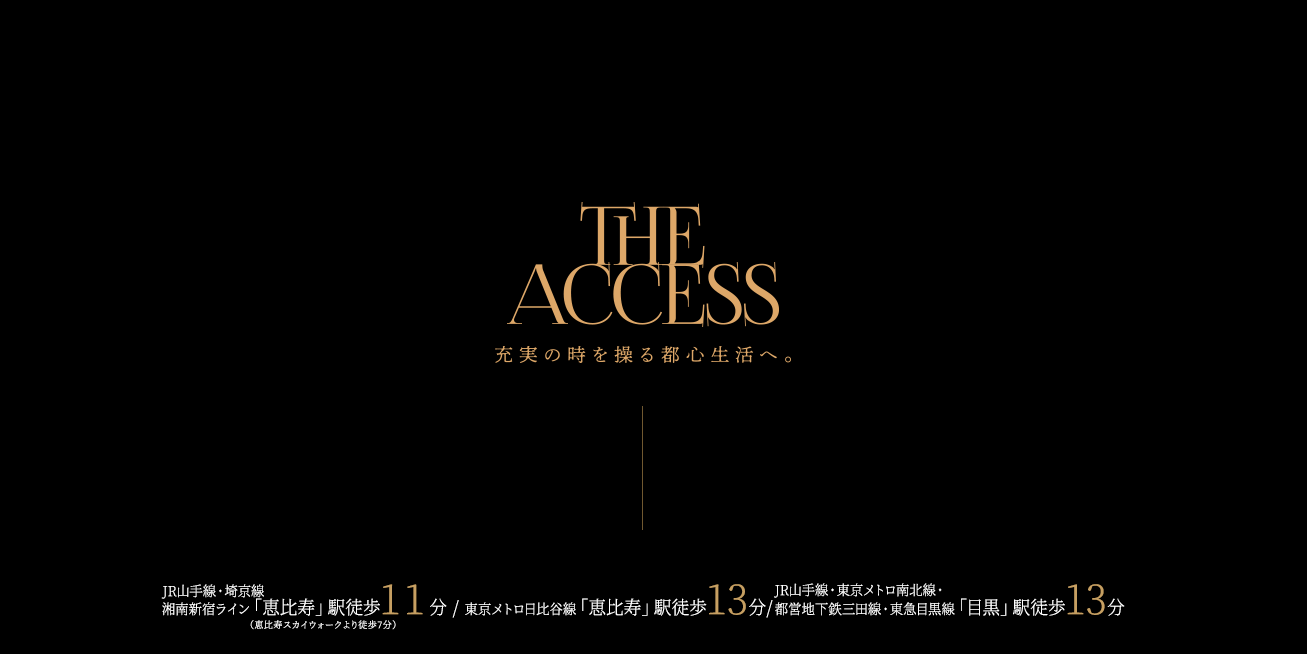
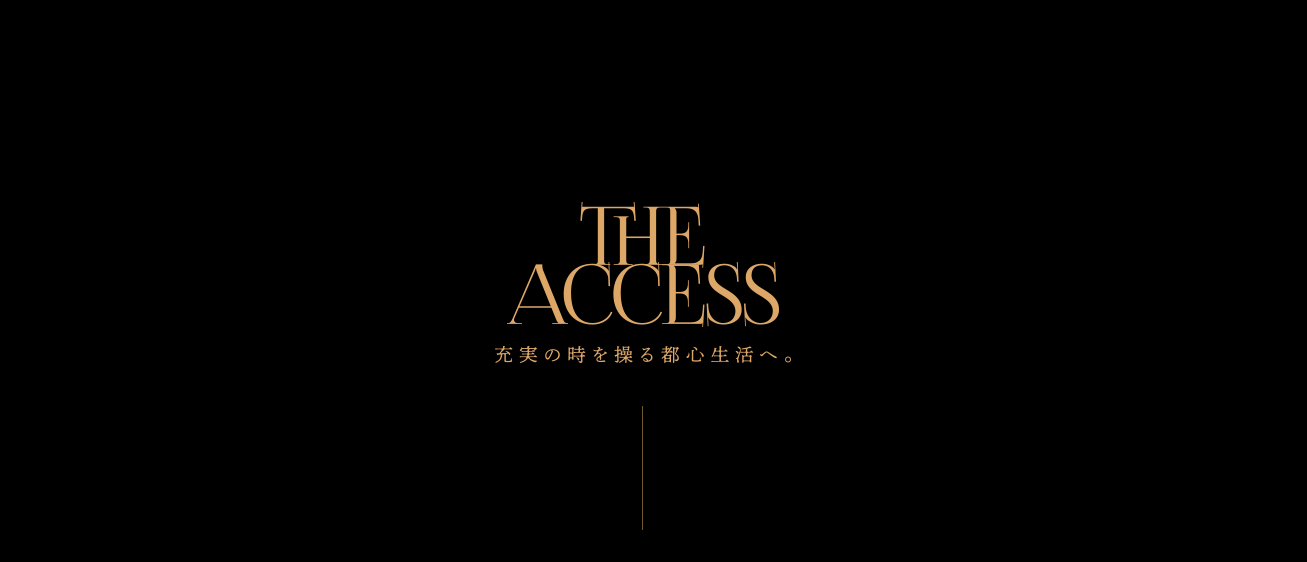
svgデータと画像変更

Changed region(s): [[0.3673, 0.3025, 0.6121, 0.5747], [0.1224, 0.8772, 0.8569, 0.968], [0.3673, 0.605, 0.5815, 0.6655]]

diff --git a/Ebisu_Realestate_dev/resources/views/top.blade.php b/Ebisu_Realestate_dev/resources/views/top.blade.php
@@ -186,7 +186,7 @@
                     <img src="{{ asset('/images/12.JPG') }}" alt="サンプル画像" class="mx-auto d-block img-fluid { max-width: 100%; height: auto }">
                 </div>
                 <div class="col-4 animation ft2 ebisu_col">
-                    <img class="mb-4 ebisu_img" src="{{ asset('/images/theebisu.png') }}" alt="サンプル画像" style="width: 56%;">
+                    <img class="mb-4 ebisu_img" src="{{ asset('/images/theebisu.svg') }}" alt="サンプル画像" style="width: 56%;">
                     <p class="mb-4 ft2 ebisu_p" style="font-size: 15px;">恵比寿、それも「恵比寿ガーデンプレイス」<br>
                         「ウエスティンホテル東京」を間近とする住宅地。<br>
                         その静謐なる佇まいはそのまま、住まわれる方の誇りとなる。<br>
@@ -203,7 +203,7 @@
             <!-- Location -->
             <div class="row my-5 py-5">
                 <div class="col-4 animation ft2 location_col">
-                    <img class="mb-4 ms-3 location_img" src="{{ asset('/images/thelocation.png') }}" alt="サンプル画像" style="width: 90.3%;">
+                    <img class="mb-4 ms-3 location_img" src="{{ asset('/images/thelocation.svg') }}" alt="サンプル画像" style="width: 90.3%;">
                     <p class="mb-4 ms-5 location_p" style="font-size: 15px;">洗練と成熟に抱かれた街、恵比寿。<br>
                         ここに誕生するのは、静けさと美しさを纏う邸宅。<br>
                         「ラ・アトレ恵比寿グランガーデン」<br>
@@ -231,7 +231,7 @@
                     <img src="{{ asset('/images/4区.png') }}" alt="サンプル画像" class="mx-auto d-block img-fluid { max-width: 100%; height: auto }">
                 </div>
                 <div class="col-4 animation ft2 access_col">
-                    <img class="mb-4 access_img" src="{{ asset('/images/theaccess.png') }}" alt="サンプル画像" style="width: 81.9%;">
+                    <img class="mb-4 access_img" src="{{ asset('/images/theaccess.svg') }}" alt="サンプル画像" style="width: 81.9%;">
                     <p class="mb-4 access_p" style="font-size: 15px;">都心をもっと近くする、スピーディなアクセス。<br>
                         渋谷、新宿、東京、品川など主要都市を結ぶ山手線。<br>
                         渋谷、霞ヶ関、銀座へダイレクトに繋がることのできる日比谷線。<br>

diff --git a/README.md b/README.md
@@ -65,10 +65,10 @@
 ・完成
 
 ## ACCESS
-・完成
+・11分のところをテキスト化
 
 ## 物件概要
-・完成!!
+・完成
 
 ## アンケート
 ・レイアウト調整-横田
@@ -87,10 +87,7 @@
 
 
 ## 現地案内
-・所在地：東京都目黒区三田1丁目1-16がデカい
-・印刷JS作成(phpでも可)-中野
-・GooglemapのJS作成(phpでも可)-中野
-・ハンバーガーメニューの出現位置-中野
+・完成
 
 
 
